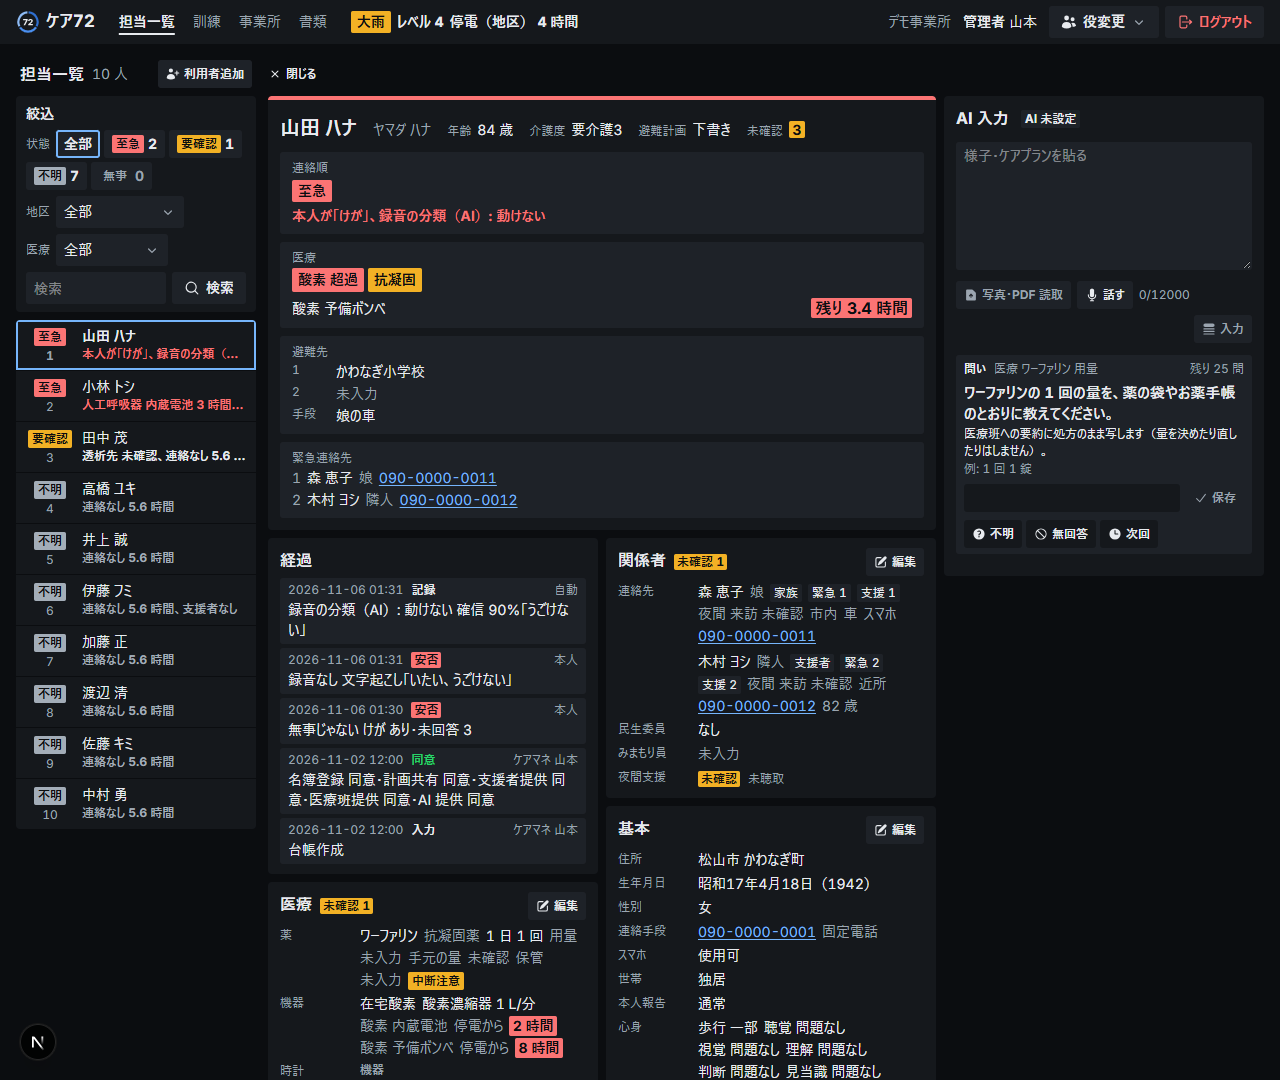
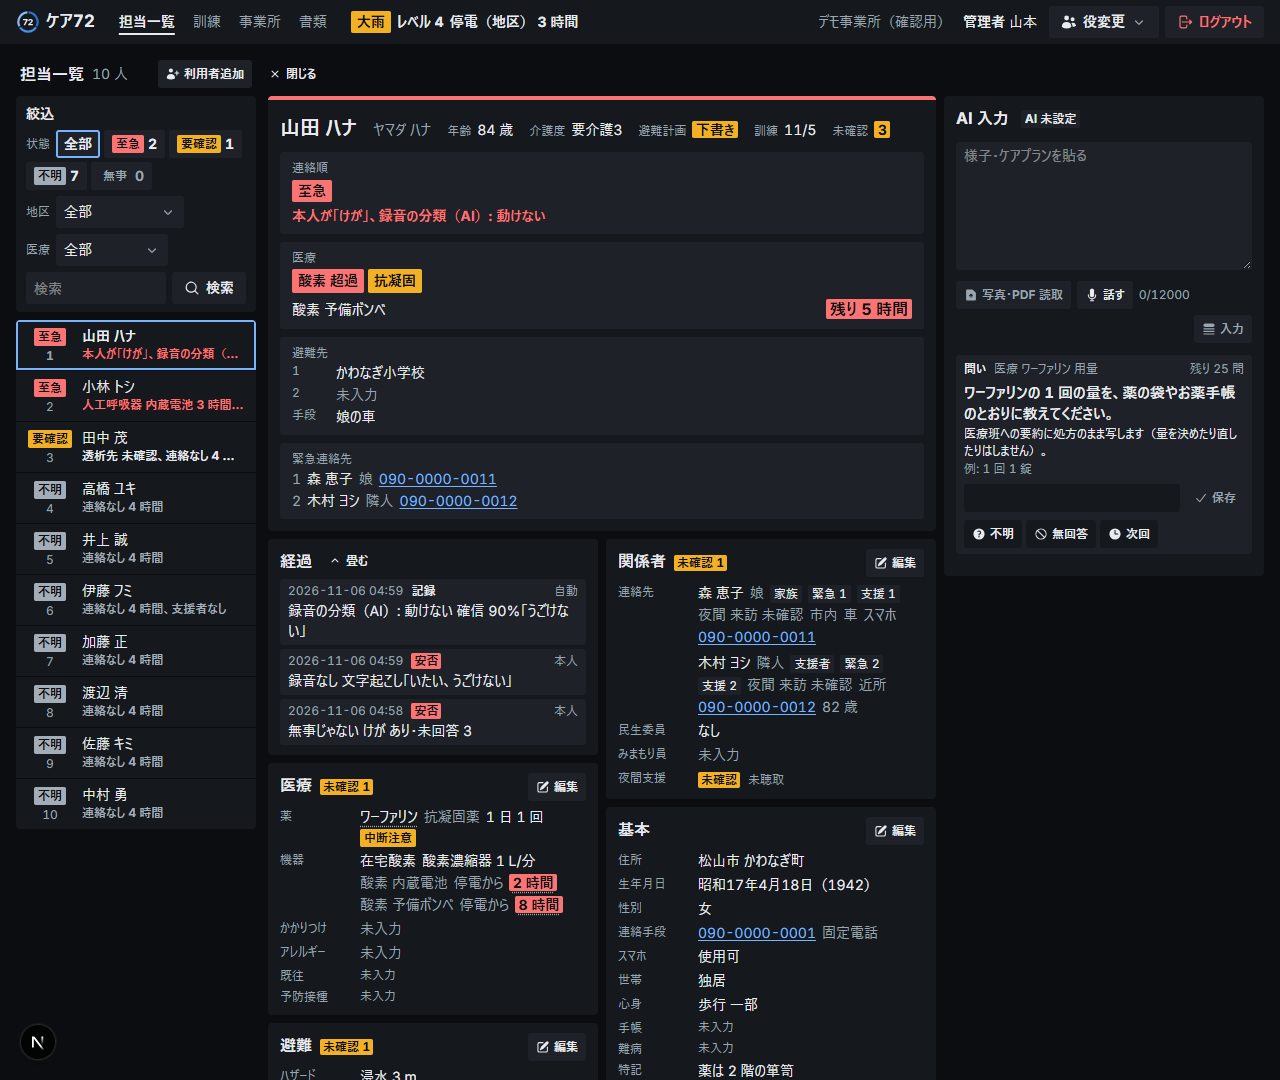
T150 の進み: Hint に替えた後の上の段の絵（印に触れたところ）を撮り直した

diff --git a/docs/progress/t150.md b/docs/progress/t150.md
@@ -28,7 +28,7 @@ Claude を使う所・使わない所: この作業は Claude を呼ばない。
 - 決めの案は docs/DECISIONS.md の「画面」の「11/6 案（T150 の Opus）」。補足の行き先（書き足しの欄 → 特記）と採らなかった案（台帳に欄ごとの補足の表を足す）、1 つ選ぶ問いを 1 押しのままにした理由、上の段の医療の欄の出し方と避難先（最終連絡を採らなかった理由）、「全部」の時計の段、書類の段で最初に出す 3 つ
 - 頼みの文では書類の段を components/forms/DocumentList.tsx としていたが、それは書類の画面（/forms）の部品だった。本人のページの書類の段は lib/person.ts の documentBlocks → PersonView の Blocks の書類の行なので、そちらを直した。DocumentList.tsx（T147 の書類の画面）は触っていない
 - 上の段（PersonHead）は単独の本人のページとも同じ部品。T143 の触るファイルに入っておらず、T143 が直すのは面の中（医療の面の機器・薬の行と「時計」の段）。上の段の「医療」「時計」の欄はここで直した。言い方は T143 の「添えは触れた時に、未入力の添えは常に出さない」にそろえた（値の無い時計の 1 行は添えず、印に数が無いことと上の「未確認 N」で分かる）
-- 印に触れた時の 1 行は、T143 の触れた時に出す部品（components/person/Hint）を使った（integrate を取り込んだ後。前は title だった。絵は替える前に撮ったので、印の下の点の線が絵に無い）
+- 印に触れた時の 1 行は、T143 の触れた時に出す部品（components/person/Hint）を使った（integrate を取り込んだ後。前は title だった）。印は inline-block なので Hint の点の下線は印の下に引かれない（絵で確かめた）
 - PersonView から書類の行（DocumentRow・printHref）を DocumentSection.tsx へ移した。PersonView で変えたのは import の 3 行と Blocks の書類の 1 行と、移した関数を外した所だけ（T143 の区分の並び・経過の所は触っていない）
 - 「未確認」と「未入力」（T79）: 上の段の避難先の空は「未入力」（新しく足した人のページで「未確認」の字が同意の区分の外に増えない）
 
@@ -37,7 +37,9 @@ Claude を使う所・使わない所: この作業は Claude を呼ばない。
 - integrate/t11-t12（T143・T144・T146 の取り込みのあと）を取り込んだ後で `npx tsc --noEmit`（typecheck と同じ）が通る。`npx vitest run --maxWorkers=3 --testTimeout=60000`: 267 ファイル中 262 通る・1 skip、テスト 4124 件通る・5 件 skip。落ちた 4 ファイルは headless Chrome を立ち上げる前の準備（hook）の時間切れ（lib/forms/t62・t86-overlay・t101-print・t106-print。印刷・PDF の物で、この作業は触っていない。手元の空きの記憶が 0.1〜0.8 GB で Chrome の立ち上げが 60 秒を超えた）。この 4 ファイルだけを `--maxWorkers=1 --hookTimeout=300000` で流し直して 4 ファイル・46 件とも通った
 - 絵は docs/progress/t150/（手元の next dev、port 3150、手元の D1 に migration と種。人は種の架空の 10 人。山本のパスワードは使い捨ての値のハッシュを環境変数で種に入れただけで、repo に書いていない。Service Worker の写しを避けて headless Chrome で撮った。種のデモ事業所は災害モード）
   - `open-p02-{1920,1280}-{light,dark}.png` 担当一覧の右の面（小林 トシ）: 上の段は 連絡順・医療（「呼吸器 超過」の印だけ）・避難先・緊急連絡先。前の「時計」の欄は無い
-  - `open-p01-1280-{light,dark}.png` 同じ所（山田 ハナ）: 「酸素 超過」「抗凝固」の印と、印の数の元でない「酸素 予備ボンベ 残り 3.x 時間」の 1 行
+  - `open-p01-1280-{light,dark}.png` 同じ所（山田 ハナ。integrate を取り込み Hint に替えた後に撮り直した。T144 の確認用の事業所 chk-p-01、T143・T146 の直しも入った形）: 「酸素 超過」「抗凝固」の印と、印の数の元でない「酸素 予備ボンベ 残り 5 時間」の 1 行
+  - `head-hint-1280-light.png` 上の段の「酸素」の印に触れたところ（時計の全部の 1 行）
+  - ほかの絵は integrate を取り込む前（T143・T146 の直しの前）に撮った。上の段・書類の段・問いの形は同じ
   - `person-p01-{1920,1280}-{light,dark}.png` 単独の本人のページ（全体）: 上の段と、下の書類の段（計画書・医療要約・本人の 1 枚と「他 2 件」）
   - `docs-open-1280-{light,dark}.png` 書類の段を開いたところ（ほかの書類と説明の 1 行、「畳む」）
   - `question-1280-{light,dark}.png` AI 入力の今の問い（在宅避難、1 つ選ぶ問い）: 補足の欄が選択肢「あり」「なし」の上
